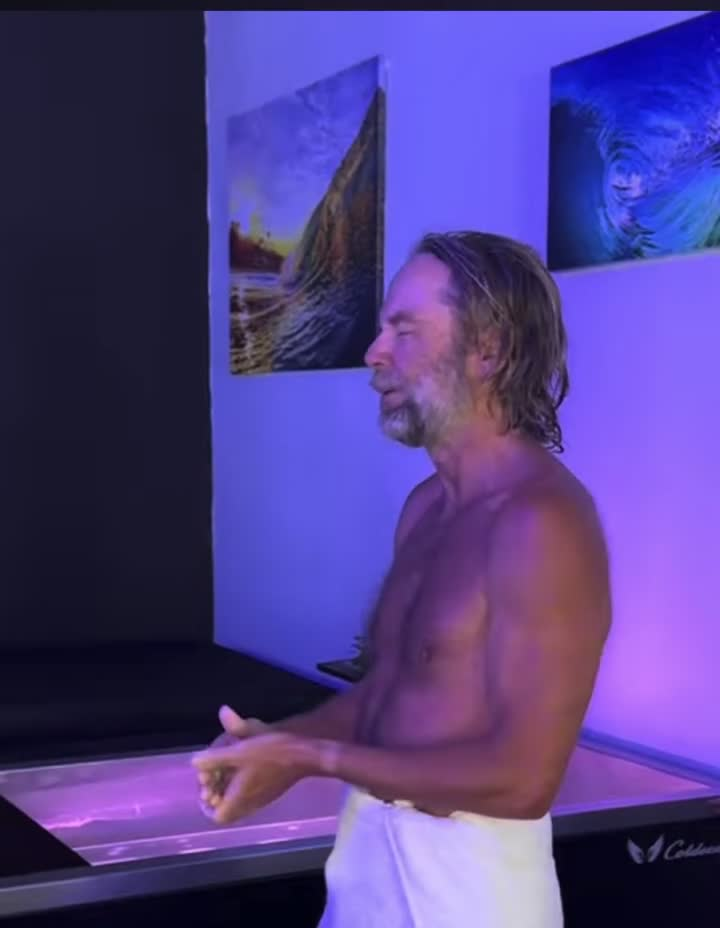
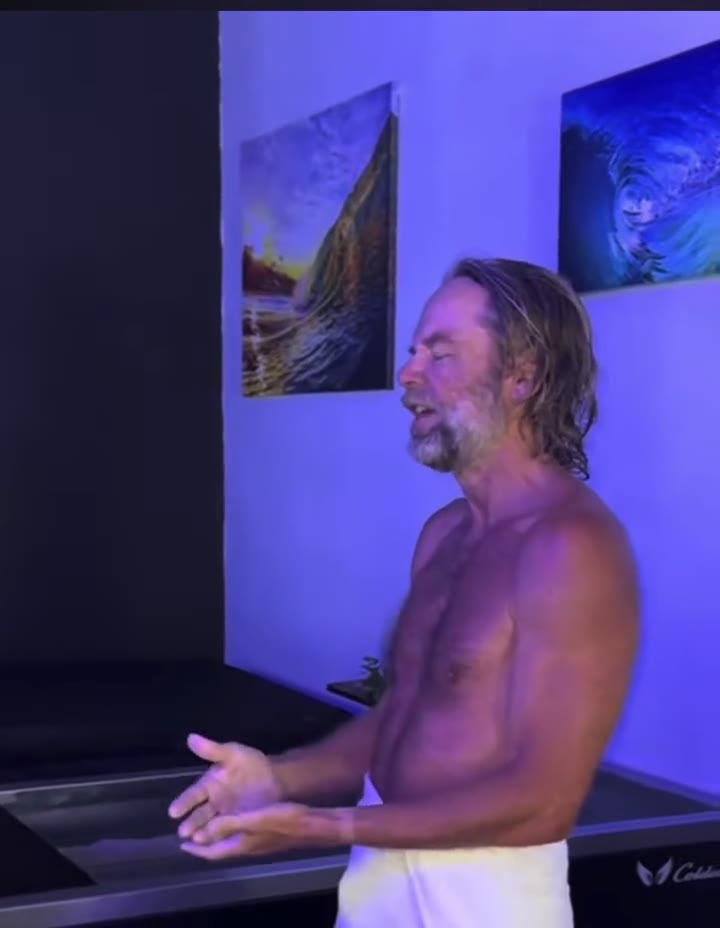
Site review fixes, all approved by Rob: Proof tile becomes a text-free grid tile (no screenshot of another site); clip poster re-cut to Rob mid-explanation; Uncle Bob quote moves from home to /proof; wide layouts balanced (bigger hero type, clip band and contact form split across the width); /proof 

diff --git a/src/app/page.tsx b/src/app/page.tsx
@@ -4,8 +4,7 @@ import { Contact } from "@/components/contact";
 import { HubPanels } from "@/components/hub-panels";
 import { MagneticButton } from "@/components/magnetic-button";
 import { Reveal } from "@/components/reveal";
-import { TweetQuote } from "@/components/tweet-quote";
-import { contactNeutral, endorsement, hub, identity } from "@/content/copy";
+import { contactNeutral, hub, identity } from "@/content/copy";
 import { isMailto } from "@/lib/email";
 import { pageMetadata } from "@/lib/metadata";
 import { getSiteUrl, site } from "@/lib/site";
@@ -58,7 +57,7 @@ export default function Home() {
                   {identity.operator} &middot; {identity.regionShort}
                 </p>
               </div>
-              <h1 className="mt-6 max-w-[22ch] text-4xl font-medium tracking-tight text-balance md:text-5xl xl:text-6xl xl:leading-[1.05]">
+              <h1 className="mt-6 max-w-[22ch] text-4xl font-medium tracking-tight text-balance md:text-5xl xl:text-7xl xl:leading-[1.02]">
                 {hub.headlineBefore}
                 <span className="text-accent">{hub.headlineEm}</span>
                 {hub.headlineAfter}
@@ -97,7 +96,7 @@ export default function Home() {
         <section className="border-t border-line">
           <div className="mx-auto max-w-[1400px] px-5 py-20 md:px-8 md:py-28">
             <div className="grid grid-cols-1 gap-10 md:grid-cols-12 md:items-center">
-              <Reveal className="md:col-span-5">
+              <Reveal className="md:col-span-6">
                 <h2 className="max-w-[16ch] text-3xl font-medium tracking-tight md:text-4xl">
                   {hub.clip.heading}
                 </h2>
@@ -116,7 +115,7 @@ export default function Home() {
                   </Link>
                 </p>
               </Reveal>
-              <Reveal className="md:col-span-4 md:col-start-7" delay={0.06}>
+              <Reveal className="md:col-span-5 md:col-start-8 md:flex md:justify-end" delay={0.06}>
                 <video
                   controls
                   preload="none"
@@ -132,26 +131,6 @@ export default function Home() {
           </div>
         </section>
 
-        <section className="border-t border-line">
-          <div className="mx-auto max-w-[1400px] px-5 py-20 md:px-8 md:py-28">
-            <Reveal>
-              <h2 className="max-w-[18ch] text-3xl font-medium tracking-tight md:text-4xl">
-                {endorsement.heading}
-              </h2>
-              <p className="mt-4 max-w-[52ch] text-[16px] leading-relaxed text-muted md:text-[17px]">
-                {endorsement.intro}
-              </p>
-            </Reveal>
-            <Reveal delay={0.06}>
-              <TweetQuote />
-            </Reveal>
-            <Reveal delay={0.1}>
-              <p className="mt-8 max-w-[52ch] text-[16px] leading-relaxed text-muted md:text-[17px]">
-                {endorsement.takeaway}
-              </p>
-            </Reveal>
-          </div>
-        </section>
         <Contact copy={contactNeutral} />
       </main>
     </>

diff --git a/src/components/hub-panels.tsx b/src/components/hub-panels.tsx
@@ -9,8 +9,8 @@ type Tile = {
   href: string;
   title: string;
   sentence: string;
-  image: string;
-  alt: string;
+  image?: string;
+  alt?: string;
   span: string;
   height: string;
   sizes: string;
@@ -23,8 +23,6 @@ const tiles: Tile[] = [
     href: "/proof",
     title: hub.panels.artifacts.title,
     sentence: hub.panels.artifacts.sentence,
-    image: "/images/proof-scoreboard.jpg",
-    alt: "The BestieScorecard site: big orange tallies of predictions extracted, episodes, and scores over a dark scoreboard",
     span: "md:col-span-7 md:row-span-2",
     height: "min-h-[340px] md:min-h-[652px]",
     sizes: "(min-width: 768px) 58vw, 100vw",
@@ -76,14 +74,26 @@ export function HubPanels() {
             href={tile.href}
             className={`group relative isolate flex h-full flex-col justify-end overflow-hidden border border-line bg-bg-elev p-6 transition-colors hover:border-ink md:p-8 ${tile.height}`}
           >
-            <Image
-              src={tile.image}
-              alt={tile.alt}
-              fill
-              sizes={tile.sizes}
-              priority={tile.priority}
-              className="-z-20 object-cover transition-transform duration-700 ease-out group-hover:scale-[1.03]"
-            />
+            {tile.image ? (
+              <Image
+                src={tile.image}
+                alt={tile.alt ?? ""}
+                fill
+                sizes={tile.sizes}
+                priority={tile.priority}
+                className="-z-20 object-cover transition-transform duration-700 ease-out group-hover:scale-[1.03]"
+              />
+            ) : (
+              <div
+                aria-hidden
+                className="absolute inset-0 -z-20 bg-[#141618] transition-transform duration-700 ease-out group-hover:scale-[1.03]"
+                style={{
+                  backgroundImage:
+                    "radial-gradient(circle at 78% 22%, rgba(200,90,50,0.32), transparent 55%), linear-gradient(rgba(255,255,255,0.05) 1px, transparent 1px), linear-gradient(90deg, rgba(255,255,255,0.05) 1px, transparent 1px)",
+                  backgroundSize: "100% 100%, 44px 44px, 44px 44px",
+                }}
+              />
+            )}
             <div className="absolute inset-0 -z-10 bg-gradient-to-t from-[#141618]/88 via-[#141618]/40 to-[#141618]/10" />
             <h2
               className={`font-medium tracking-tight text-white ${

diff --git a/src/app/proof/page.tsx b/src/app/proof/page.tsx
@@ -1,7 +1,7 @@
 import { ArtifactList } from "@/components/artifact-list";
-import { Contact } from "@/components/contact";
 import { Reveal } from "@/components/reveal";
-import { artifactsPage, contactNeutral } from "@/content/copy";
+import { TweetQuote } from "@/components/tweet-quote";
+import { artifactsPage, endorsement } from "@/content/copy";
 import { pageMetadata } from "@/lib/metadata";
 
 export function generateMetadata() {
@@ -31,7 +31,26 @@ export default function ArtifactsPage() {
           <ArtifactList />
         </div>
       </section>
-      <Contact copy={contactNeutral} />
+      <section>
+        <div className="mx-auto max-w-[1400px] px-5 py-20 md:px-8 md:py-28">
+          <div className="grid grid-cols-1 gap-10 lg:grid-cols-12 lg:items-start">
+            <Reveal className="lg:col-span-5">
+              <h2 className="max-w-[18ch] text-3xl font-medium tracking-tight md:text-4xl">
+                {endorsement.heading}
+              </h2>
+              <p className="mt-4 max-w-[46ch] text-[16px] leading-relaxed text-muted md:text-[17px]">
+                {endorsement.intro}
+              </p>
+              <p className="mt-6 max-w-[46ch] text-[16px] leading-relaxed text-muted md:text-[17px]">
+                {endorsement.takeaway}
+              </p>
+            </Reveal>
+            <Reveal className="lg:col-span-6 lg:col-start-7" delay={0.06}>
+              <TweetQuote />
+            </Reveal>
+          </div>
+        </div>
+      </section>
     </main>
   );
 }

diff --git a/src/components/artifact-list.tsx b/src/components/artifact-list.tsx
@@ -7,12 +7,11 @@ import {
 } from "@/content/copy";
 
 const parts: {
-  key: keyof Pick<Artifact, "does" | "orchestrated" | "stack" | "evidence">;
+  key: keyof Pick<Artifact, "does" | "orchestrated" | "evidence">;
   label: string;
 }[] = [
   { key: "does", label: "What it does" },
   { key: "orchestrated", label: "What I orchestrated" },
-  { key: "stack", label: "The stack" },
   { key: "evidence", label: "The evidence" },
 ];
 
@@ -87,6 +86,20 @@ function ArtifactBody({ item }: { item: Artifact }) {
           </dd>
         </div>
       ))}
+      <details className="group/stack md:col-span-2">
+        <summary className="flex cursor-pointer list-none items-center gap-2 text-[14px] font-medium text-muted transition-colors hover:text-ink [&::-webkit-details-marker]:hidden">
+          <span
+            aria-hidden
+            className="font-mono text-accent transition-transform duration-200 group-open/stack:rotate-45"
+          >
+            +
+          </span>
+          The technical stack
+        </summary>
+        <p className="mt-3 max-w-[68ch] font-mono text-[13px] leading-relaxed text-muted">
+          {item.stack}
+        </p>
+      </details>
     </dl>
   );
 }

diff --git a/src/components/contact.tsx b/src/components/contact.tsx
@@ -54,8 +54,8 @@ export function Contact({ copy = contactNeutral }: { copy?: ContactCopy }) {
 
   return (
     <section id="contact" className="border-t border-line scroll-mt-20">
-      <div className="mx-auto max-w-[1400px] px-5 py-20 md:px-8 md:py-28">
-        <Reveal>
+      <div className="mx-auto grid max-w-[1400px] grid-cols-1 px-5 py-20 md:px-8 md:py-28 lg:grid-cols-12 lg:gap-10">
+        <Reveal className="lg:col-span-5">
           <h2 className="max-w-[16ch] text-3xl font-medium tracking-tight md:text-4xl">
             {copy.heading}
           </h2>
@@ -64,7 +64,7 @@ export function Contact({ copy = contactNeutral }: { copy?: ContactCopy }) {
           </p>
         </Reveal>
 
-        <Reveal delay={0.08} className="mt-12 max-w-xl">
+        <Reveal delay={0.08} className="mt-12 max-w-xl lg:col-span-6 lg:col-start-7 lg:mt-0">
           {status === "success" ? (
             <p className="border border-line bg-bg-elev px-5 py-6 text-[16px] leading-relaxed">
               {copy.success}

diff --git a/src/app/org/page.tsx b/src/app/org/page.tsx
@@ -1,7 +1,6 @@
-import { Contact } from "@/components/contact";
 import { OrgChart, OrgChartLegend } from "@/components/org-chart";
 import { Reveal } from "@/components/reveal";
-import { contactNeutral, orgPage, type OrgNode } from "@/content/copy";
+import { orgPage, type OrgNode } from "@/content/copy";
 import { pageMetadata } from "@/lib/metadata";
 
 export function generateMetadata() {
@@ -150,7 +149,6 @@ export default function OrgPage() {
           </div>
         </div>
       </section>
-      <Contact copy={contactNeutral} />
     </main>
   );
 }

diff --git a/src/app/work/page.tsx b/src/app/work/page.tsx
@@ -1,8 +1,7 @@
 import Image from "next/image";
 import Link from "next/link";
-import { Contact } from "@/components/contact";
 import { Reveal } from "@/components/reveal";
-import { contactNeutral, workEntries, workPage } from "@/content/copy";
+import { workEntries, workPage } from "@/content/copy";
 import { pageMetadata } from "@/lib/metadata";
 
 export function generateMetadata() {
@@ -148,7 +147,6 @@ export default function WorkPage() {
           </div>
         </div>
       </section>
-      <Contact copy={contactNeutral} />
     </main>
   );
 }

diff --git a/src/app/how-i-operate/page.tsx b/src/app/how-i-operate/page.tsx
@@ -1,7 +1,6 @@
-import { Contact } from "@/components/contact";
 import { Reveal } from "@/components/reveal";
 import { XEmbed } from "@/components/x-embed";
-import { contactNeutral, operatePage } from "@/content/copy";
+import { operatePage } from "@/content/copy";
 import { pageMetadata } from "@/lib/metadata";
 
 export function generateMetadata() {
@@ -107,7 +106,6 @@ export default function OperatePage() {
           </div>
         </div>
       </section>
-      <Contact copy={contactNeutral} />
     </main>
   );
 }

diff --git a/src/content/copy.ts b/src/content/copy.ts
@@ -95,7 +95,7 @@ export const endorsement = {
     "IMHO.",
   ],
   takeaway:
-    "He writes code. I direct it. The discipline he is naming is what the rest of this site documents.",
+    "He writes code. I direct it. The cards above are what that discipline looks like in practice.",
 } as const;
 
 export const artifactsPage = {

diff --git a/CONTENT-RULES.md b/CONTENT-RULES.md
@@ -104,8 +104,14 @@ Nav order: Work, Proof, How I operate, Interests, Photographs. /studios was
 soft-parked 2026-10-31 (unlinked, still serving). /proof was renamed from
 /artifacts on 2026-08-28 with a permanent redirect; the old URL keeps working.
 
+**Homepage, 2026-11-21 (Rob: "make all of them"):** the headshot is a small
+avatar beside the eyebrow, never the first thing on the page. Tile images carry
+no text of their own; a tile is never a screenshot of another site. The
+Uncle Bob quote lives on /proof, not home. The contact form appears on the
+homepage only; every other page relies on the footer's email line.
+
 **Proof-page bar:** a card must be openable or verifiable quickly, and it must
-be evidence, not lab notebook. Every card carries a one-line summary and a
+be evidence, not lab notebook. The technical stack sits behind a click. Every card carries a one-line summary and a
 dated status; a status line that goes stale is a bug, not a leftover. Run-count
 trophies stay off the page. Hobby apps live on /interests.
 
